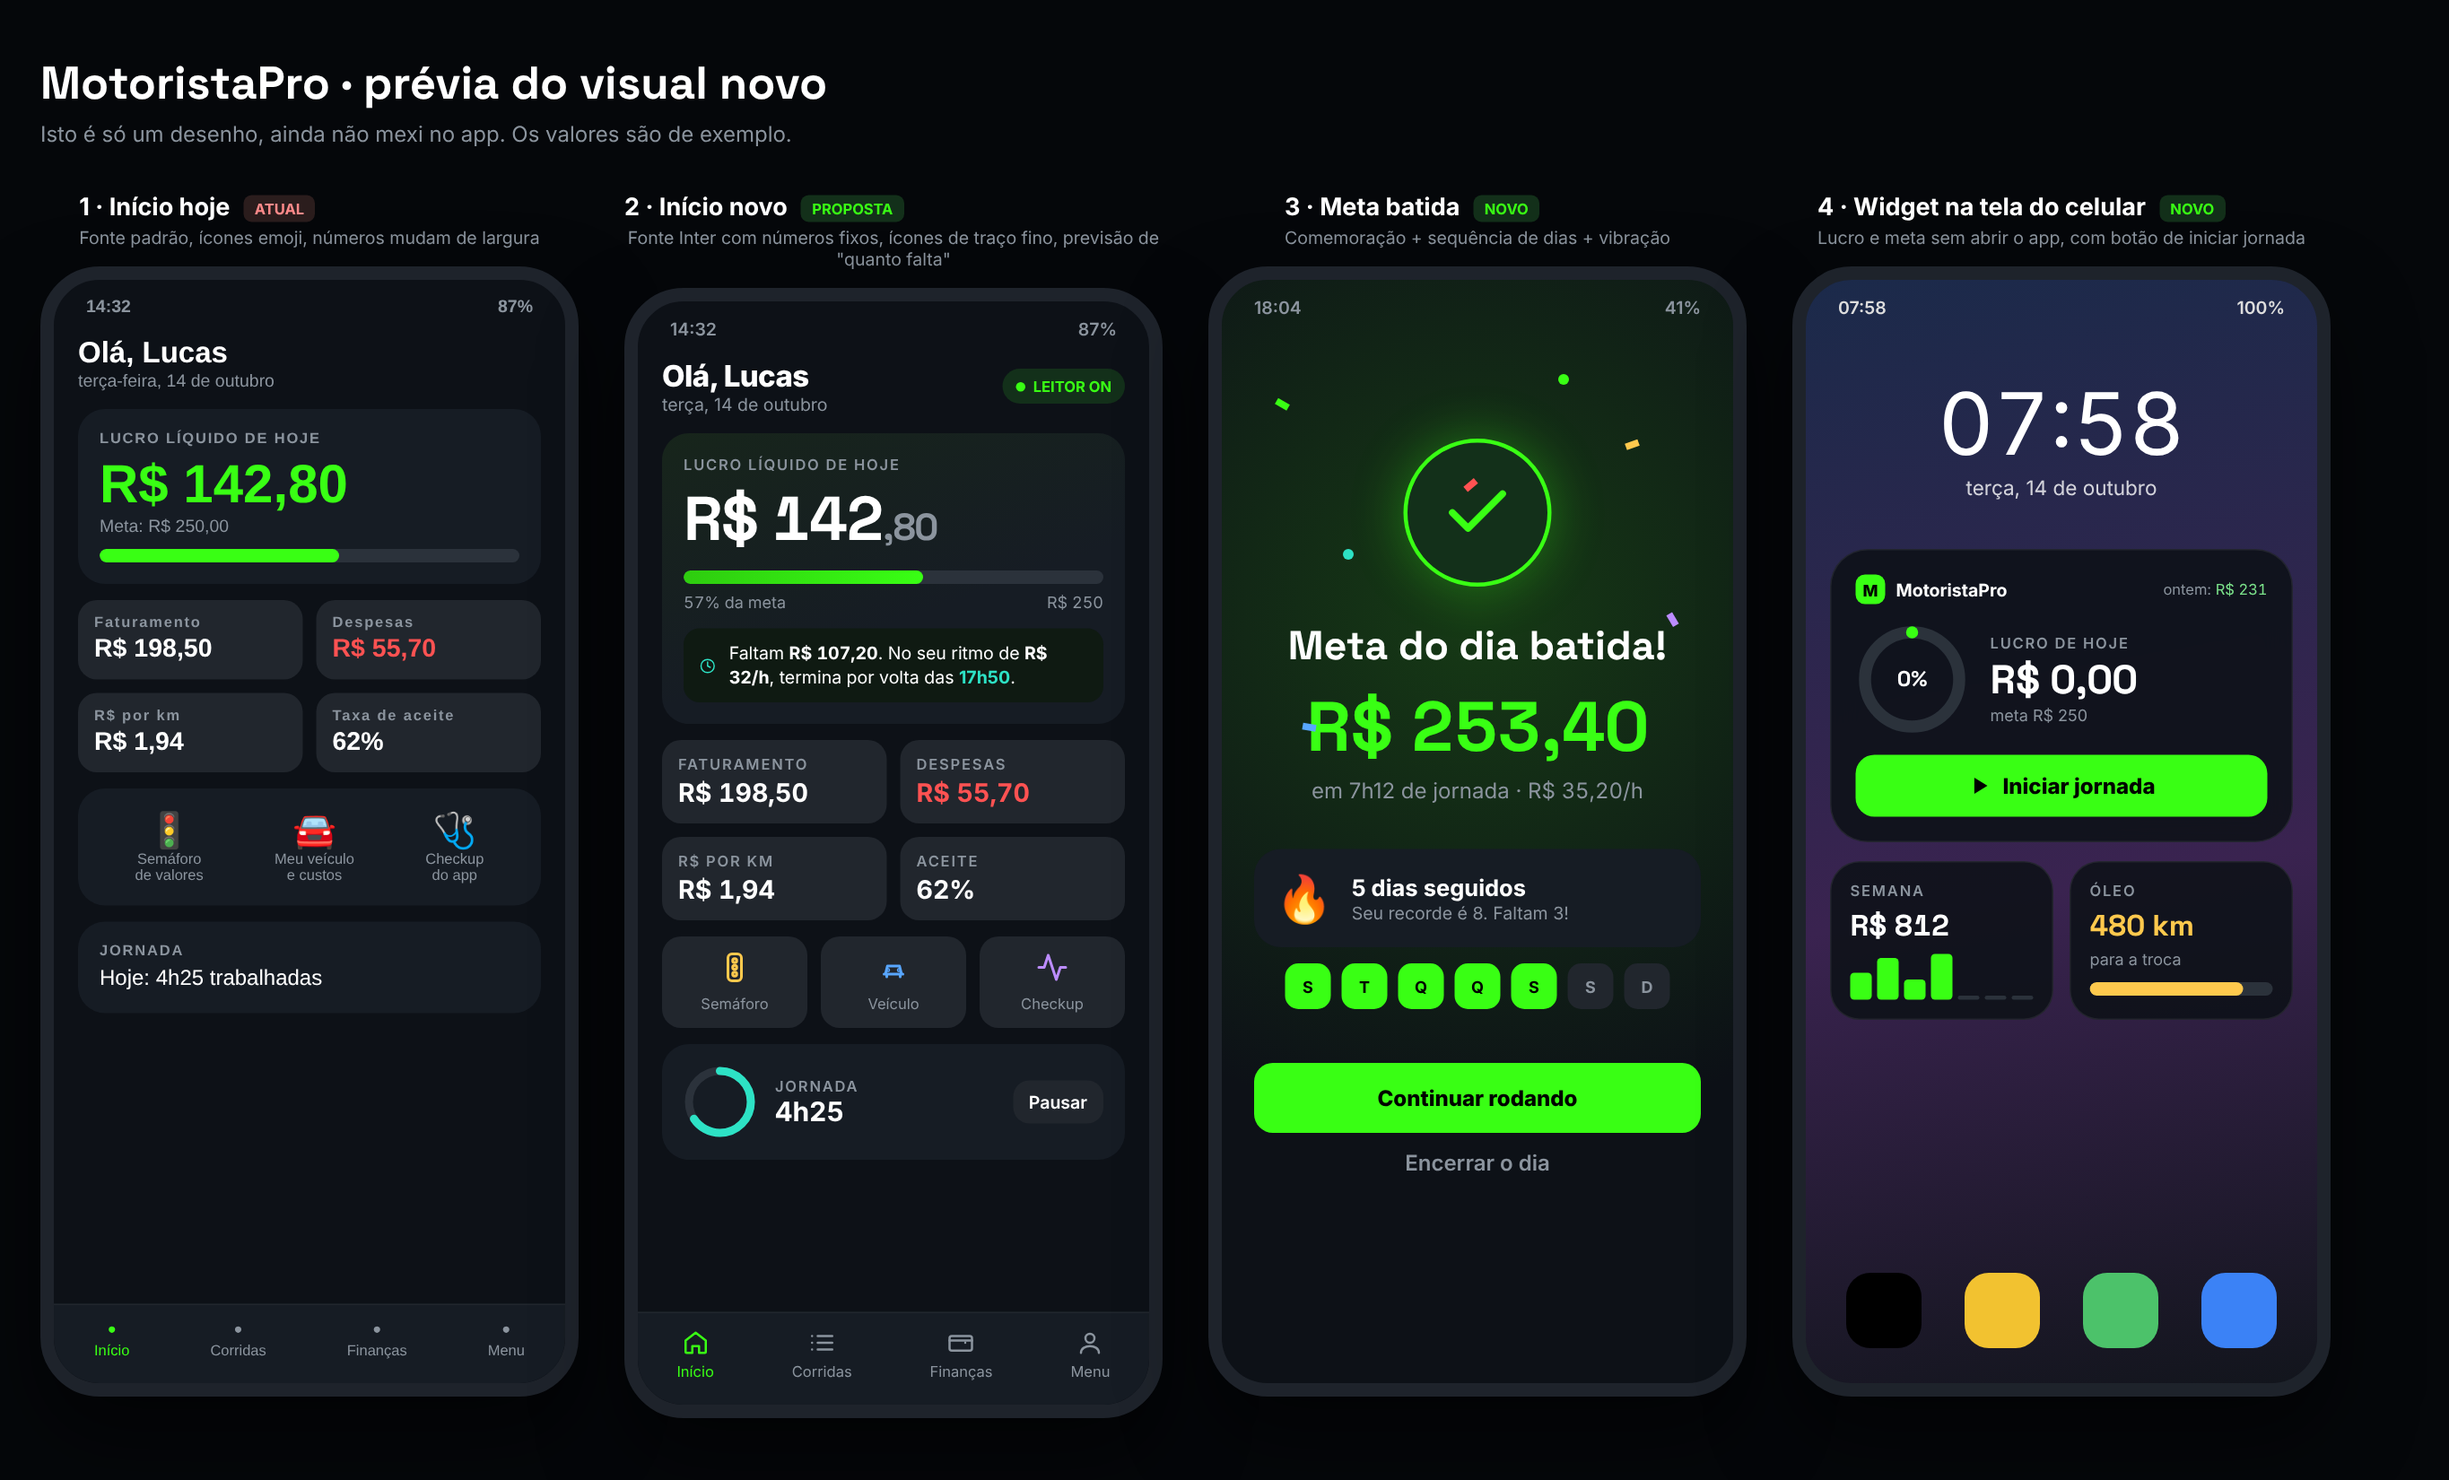
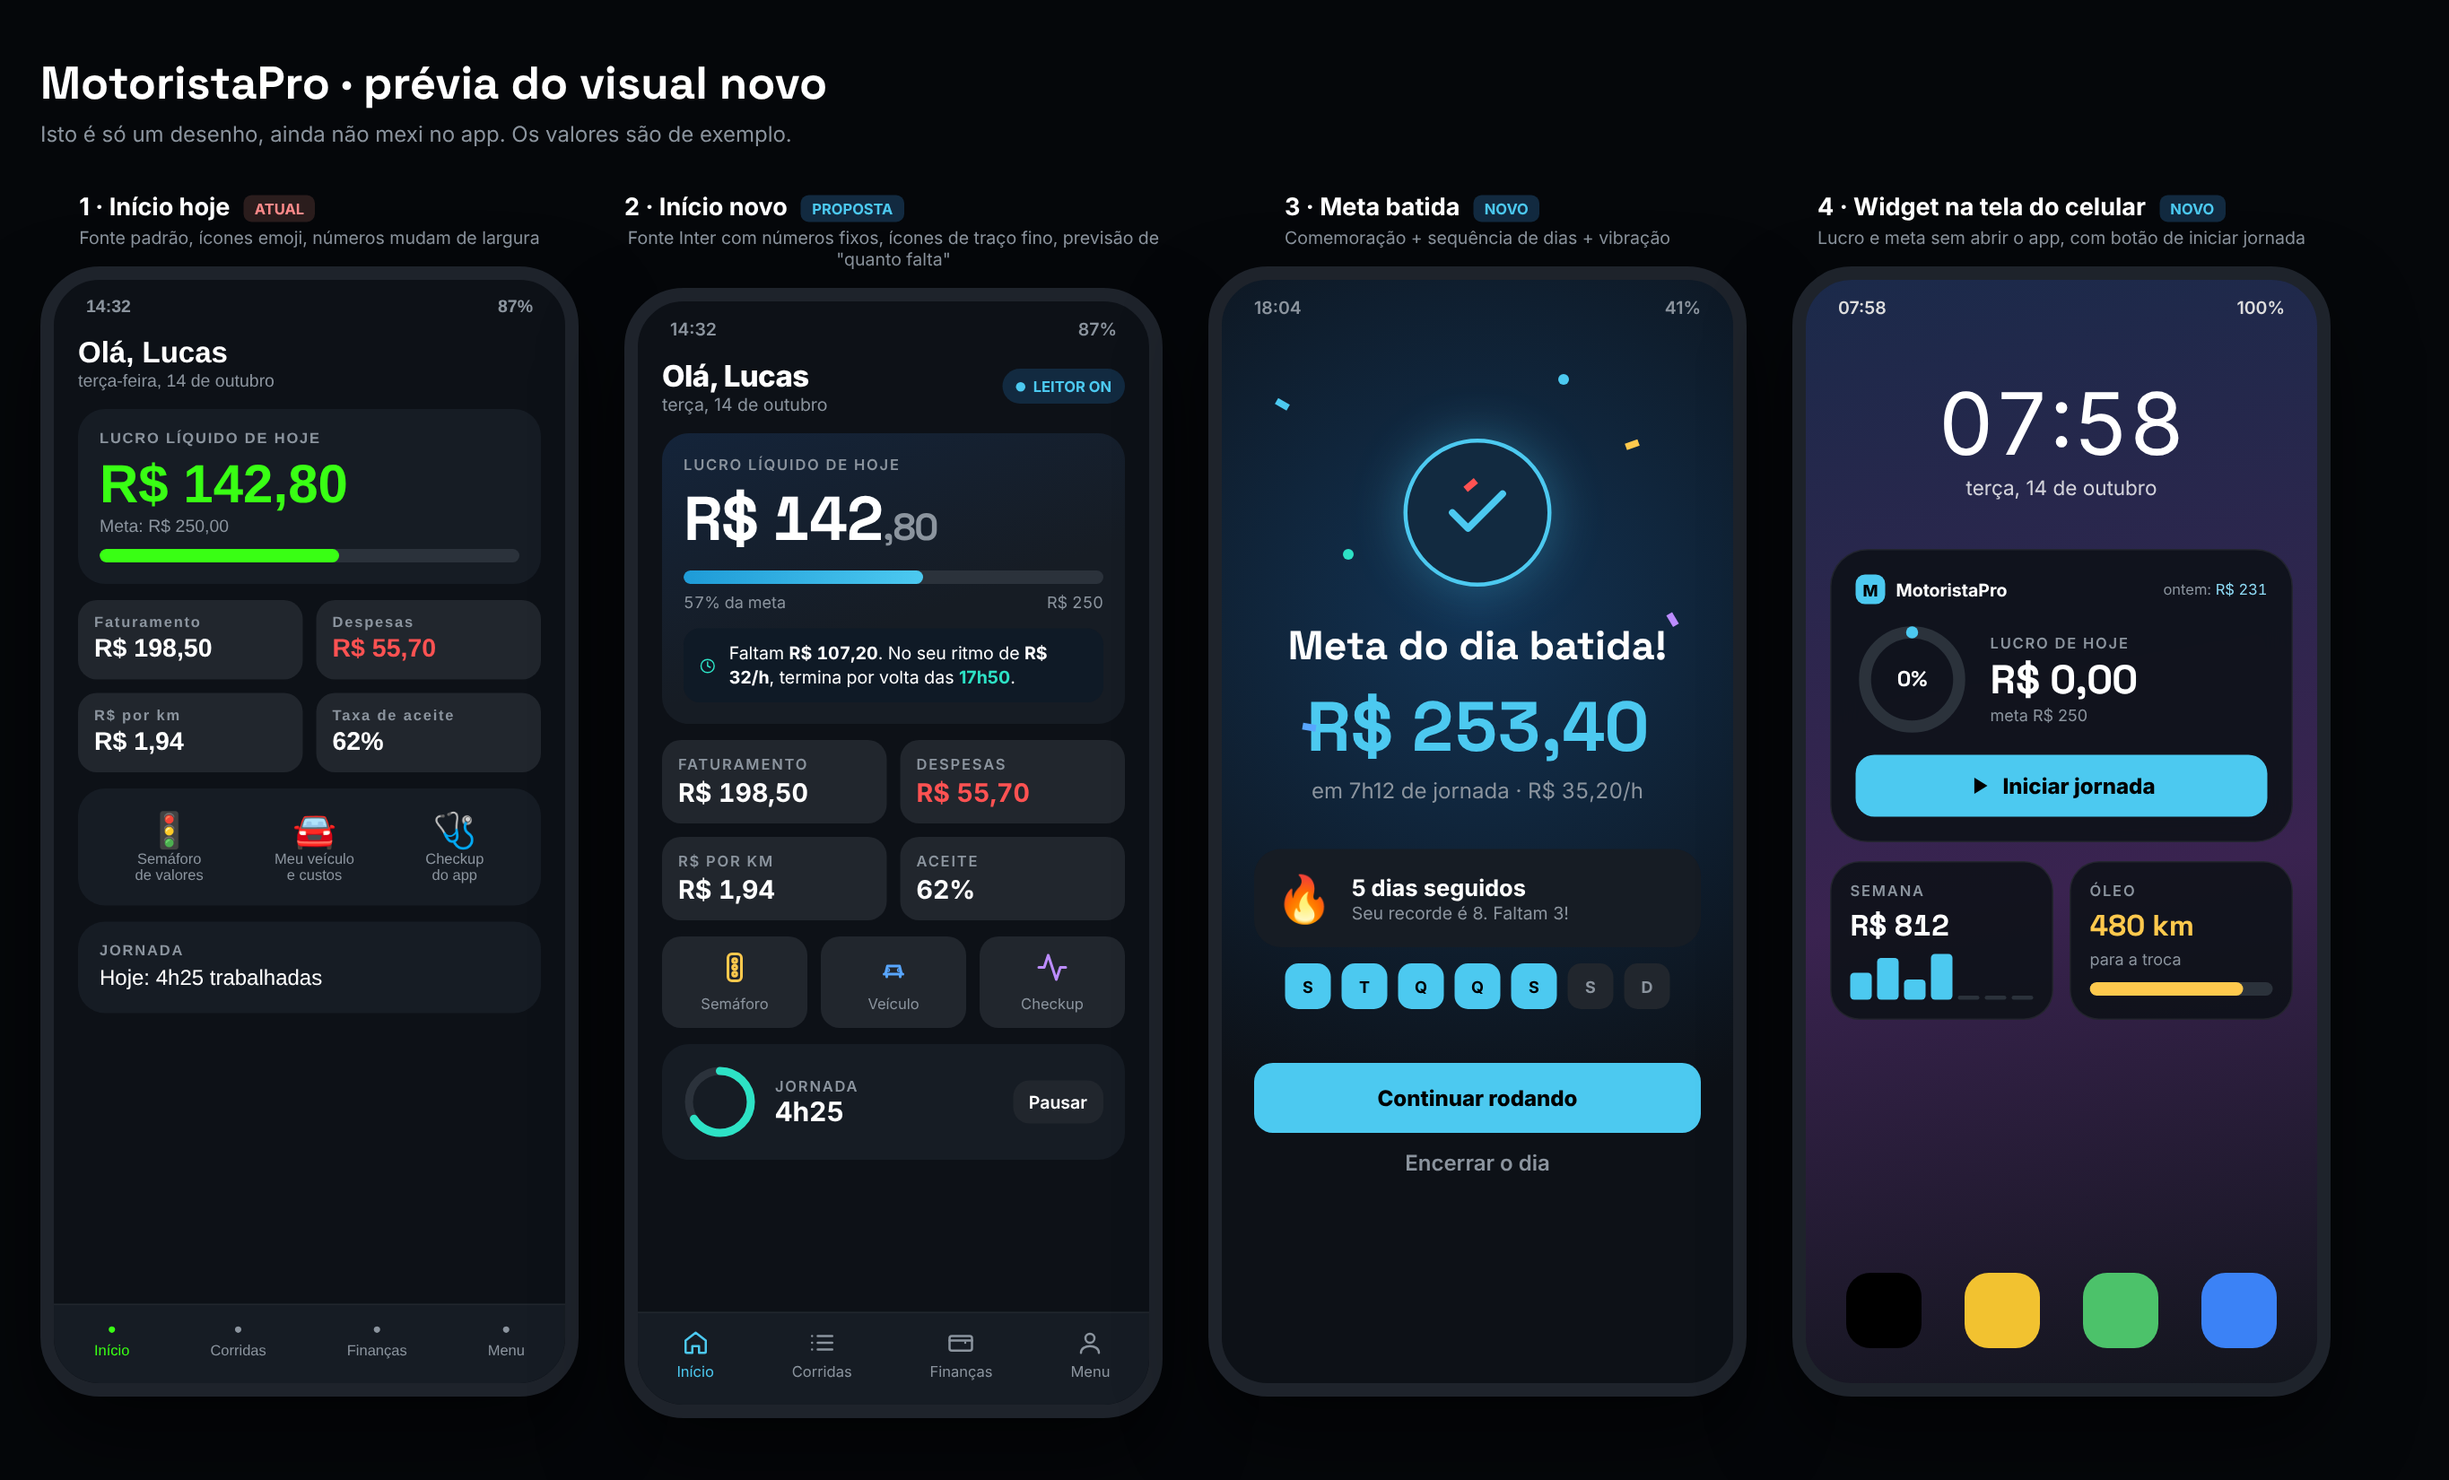
Previa: azul claro no lugar do verde neon
Claude-Session: https://claude.ai/code/session_01WVGcsJKXGHjLoBBrc4KRa2

diff --git a/mockups/mockup.html b/mockups/mockup.html
@@ -2,7 +2,7 @@
 <html lang="pt-BR"><head><meta charset="utf-8">
 <link href="https://fonts.googleapis.com/css2?family=Inter:wght@400;500;600;700;800&family=Space+Grotesk:wght@500;700&display=swap" rel="stylesheet">
 <style>
-:root{--fundo:#0D1117;--card:#161C24;--alto:#21262D;--mais:#2B323B;--lucro:#39FF14;--lucro2:#7CE38B;--verm:#FF5252;--amar:#FFC94D;--azul:#58A6FF;--turq:#2DE2C5;--roxo:#BC8CFF;--txt:#fff;--sec:#8B949E;--cont:#21262D}
+:root{--fundo:#0D1117;--card:#161C24;--alto:#21262D;--mais:#2B323B;--lucro:#4CC9F0;--lucro2:#8FDCF7;--verm:#FF5252;--amar:#FFC94D;--azul:#58A6FF;--turq:#2DE2C5;--roxo:#BC8CFF;--txt:#fff;--sec:#8B949E;--cont:#21262D}
 *{box-sizing:border-box;margin:0;padding:0}
 body{background:#05070a;font-family:Inter,sans-serif;color:var(--txt);padding:40px 30px;width:1820px}
 h1{font-family:'Space Grotesk';font-size:34px;margin-bottom:6px}
@@ -11,7 +11,7 @@ h1{font-family:'Space Grotesk';font-size:34px;margin-bottom:6px}
 .col{display:flex;flex-direction:column;align-items:center;gap:14px}
 .rot{font-weight:700;font-size:18px}.rot small{display:block;color:var(--sec);font-weight:400;font-size:13px;margin-top:4px;text-align:center;max-width:400px}
 .tag{font-size:11px;font-weight:700;padding:3px 8px;border-radius:6px;background:#2b1d1d;color:#ff8a8a;margin-left:6px;vertical-align:middle}
-.tag.n{background:#13301a;color:var(--lucro)}
+.tag.n{background:#122a40;color:var(--lucro)}
 .cel{width:400px;height:840px;border-radius:44px;background:var(--fundo);border:10px solid #1e232b;overflow:hidden;position:relative;box-shadow:0 30px 60px #0008}
 .sb{display:flex;justify-content:space-between;padding:12px 24px 0;font-size:13px;color:var(--sec);font-weight:600}
 .pad{padding:14px 18px}
@@ -28,7 +28,7 @@ h1{font-family:'Space Grotesk';font-size:34px;margin-bottom:6px}
 .nav div{display:flex;flex-direction:column;align-items:center;gap:4px;font-size:11px;color:var(--sec)}
 .nav .on{color:var(--lucro)}
 /* versão antiga simplificada */
-.velho{font-family:Roboto,sans-serif}
+.velho{font-family:Roboto,sans-serif;--lucro:#39FF14}
 .velho .emoji{font-size:26px;text-align:center}
 </style></head><body>
 <h1>MotoristaPro · prévia do visual novo</h1>
@@ -72,14 +72,14 @@ h1{font-family:'Space Grotesk';font-size:34px;margin-bottom:6px}
   <div style="display:flex;justify-content:space-between;align-items:center;margin-bottom:14px">
    <div><div style="font-size:22px;font-weight:800;letter-spacing:-.4px">Olá, Lucas</div>
    <div style="color:var(--sec);font-size:13px">terça, 14 de outubro</div></div>
-   <div style="display:flex;align-items:center;gap:6px;background:#13301a;color:var(--lucro);font-size:11px;font-weight:700;padding:6px 10px;border-radius:20px"><span style="width:7px;height:7px;border-radius:50%;background:var(--lucro)"></span>LEITOR ON</div>
+   <div style="display:flex;align-items:center;gap:6px;background:#122a40;color:var(--lucro);font-size:11px;font-weight:700;padding:6px 10px;border-radius:20px"><span style="width:7px;height:7px;border-radius:50%;background:var(--lucro)"></span>LEITOR ON</div>
   </div>
-  <div class="card" style="background:linear-gradient(160deg,#17251b,#161C24 60%)">
+  <div class="card" style="background:linear-gradient(160deg,#14243a,#161C24 60%)">
    <div class="lbl">LUCRO LÍQUIDO DE HOJE</div>
    <div class="num" style="font-family:'Space Grotesk';font-size:46px;font-weight:700;margin-top:4px;letter-spacing:-1px">R$ 142<span style="color:var(--sec);font-size:28px">,80</span></div>
-   <div class="barra"><i style="width:57%;background:linear-gradient(90deg,#2ECC0F,var(--lucro))"></i></div>
+   <div class="barra"><i style="width:57%;background:linear-gradient(90deg,#1E9BD7,var(--lucro))"></i></div>
    <div style="display:flex;justify-content:space-between;font-size:12px;color:var(--sec);margin-top:6px"><span class="num">57% da meta</span><span class="num">R$ 250</span></div>
-   <div style="margin-top:12px;background:#0f1a12;border-radius:12px;padding:10px 12px;display:flex;gap:10px;align-items:center">
+   <div style="margin-top:12px;background:#0f1a26;border-radius:12px;padding:10px 12px;display:flex;gap:10px;align-items:center">
     <svg class="ico" style="color:var(--turq)" viewBox="0 0 24 24"><circle cx="12" cy="12" r="10"/><path d="M12 6v6l4 2"/></svg>
     <div style="font-size:13px;line-height:1.35">Faltam <b class="num">R$ 107,20</b>. No seu ritmo de <b class="num">R$ 32/h</b>, termina por volta das <b style="color:var(--turq)">17h50</b>.</div>
    </div>
@@ -112,7 +112,7 @@ h1{font-family:'Space Grotesk';font-size:34px;margin-bottom:6px}
 <!-- 3 META BATIDA -->
 <div class="col">
 <div class="rot">3 · Meta batida <span class="tag n">NOVO</span><small>Comemoração + sequência de dias + vibração</small></div>
-<div class="cel" style="background:radial-gradient(circle at 50% 30%,#163a15,#0D1117 65%)">
+<div class="cel" style="background:radial-gradient(circle at 50% 30%,#123354,#0D1117 65%)">
  <div class="sb"><span>18:04</span><span>41%</span></div>
  <div style="position:absolute;inset:0;pointer-events:none">
   <!-- confete -->
@@ -125,7 +125,7 @@ h1{font-family:'Space Grotesk';font-size:34px;margin-bottom:6px}
   <i style="position:absolute;left:180px;top:150px;width:10px;height:5px;background:var(--verm);transform:rotate(-40deg)"></i>
  </div>
  <div style="text-align:center;padding:90px 24px 0">
-  <div style="width:110px;height:110px;margin:0 auto;border-radius:50%;background:#13301a;border:3px solid var(--lucro);display:flex;align-items:center;justify-content:center;box-shadow:0 0 40px #39ff1455">
+  <div style="width:110px;height:110px;margin:0 auto;border-radius:50%;background:#122a40;border:3px solid var(--lucro);display:flex;align-items:center;justify-content:center;box-shadow:0 0 40px #4CC9F055">
    <svg viewBox="0 0 24 24" style="width:56px;height:56px;stroke:var(--lucro);fill:none;stroke-width:2.2;stroke-linecap:round;stroke-linejoin:round"><path d="M20 6L9 17l-5-5"/></svg></div>
   <div style="font-family:'Space Grotesk';font-size:30px;font-weight:700;margin-top:24px">Meta do dia batida!</div>
   <div class="num" style="font-family:'Space Grotesk';font-size:52px;font-weight:700;color:var(--lucro);margin-top:8px">R$ 253,40</div>
@@ -161,7 +161,7 @@ h1{font-family:'Space Grotesk';font-size:34px;margin-bottom:6px}
    <div style="font-size:11px;color:var(--sec)">ontem: <span class="num" style="color:var(--lucro2)">R$ 231</span></div>
   </div>
   <div style="display:flex;align-items:center;gap:16px;margin-top:14px">
-   <svg width="84" height="84" viewBox="0 0 84 84"><circle cx="42" cy="42" r="35" stroke="#2B323B" stroke-width="9" fill="none"/><circle cx="42" cy="42" r="35" stroke="#39FF14" stroke-width="9" fill="none" stroke-dasharray="0 220" stroke-linecap="round" transform="rotate(-90 42 42)"/><text x="42" y="47" text-anchor="middle" fill="#fff" font-family="Space Grotesk" font-weight="700" font-size="16">0%</text></svg>
+   <svg width="84" height="84" viewBox="0 0 84 84"><circle cx="42" cy="42" r="35" stroke="#2B323B" stroke-width="9" fill="none"/><circle cx="42" cy="42" r="35" stroke="#4CC9F0" stroke-width="9" fill="none" stroke-dasharray="0 220" stroke-linecap="round" transform="rotate(-90 42 42)"/><text x="42" y="47" text-anchor="middle" fill="#fff" font-family="Space Grotesk" font-weight="700" font-size="16">0%</text></svg>
    <div><div class="lbl">LUCRO DE HOJE</div><div class="num" style="font-family:'Space Grotesk';font-size:30px;font-weight:700">R$ 0,00</div><div style="font-size:12px;color:var(--sec)">meta R$ 250</div></div>
   </div>
   <div style="margin-top:14px;background:var(--lucro);color:#000;font-weight:800;text-align:center;padding:13px;border-radius:14px;display:flex;align-items:center;justify-content:center;gap:8px">
